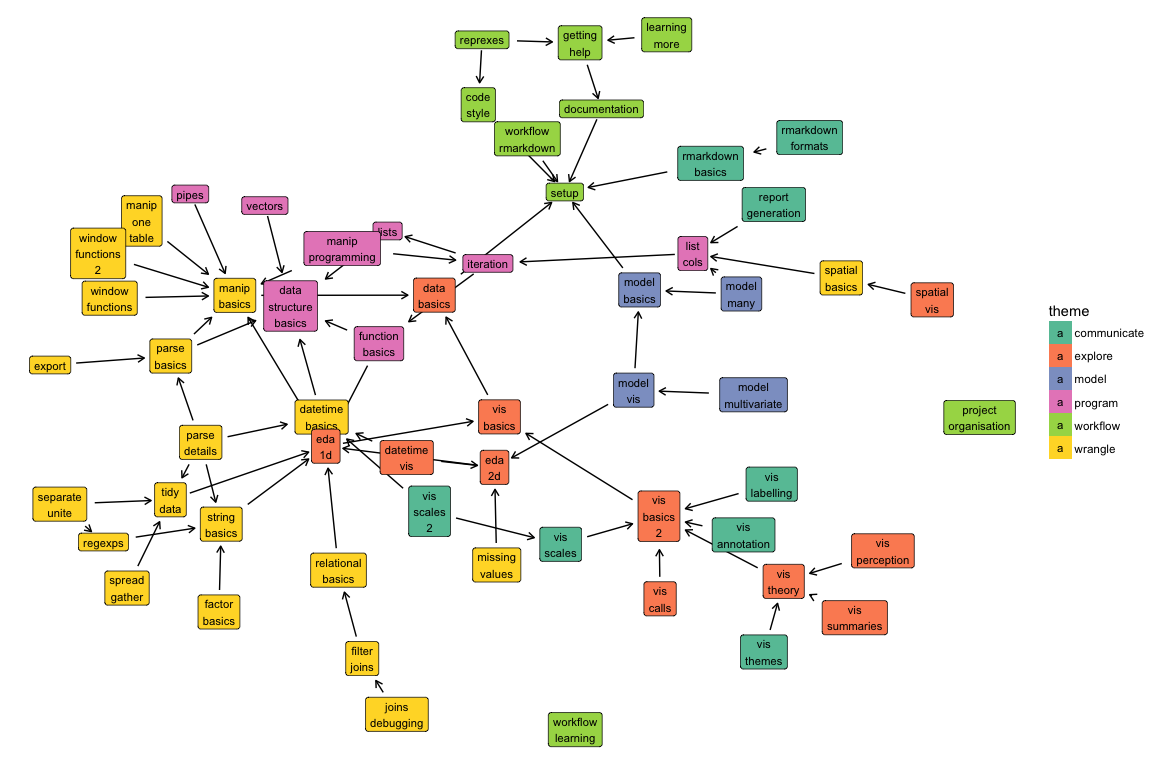
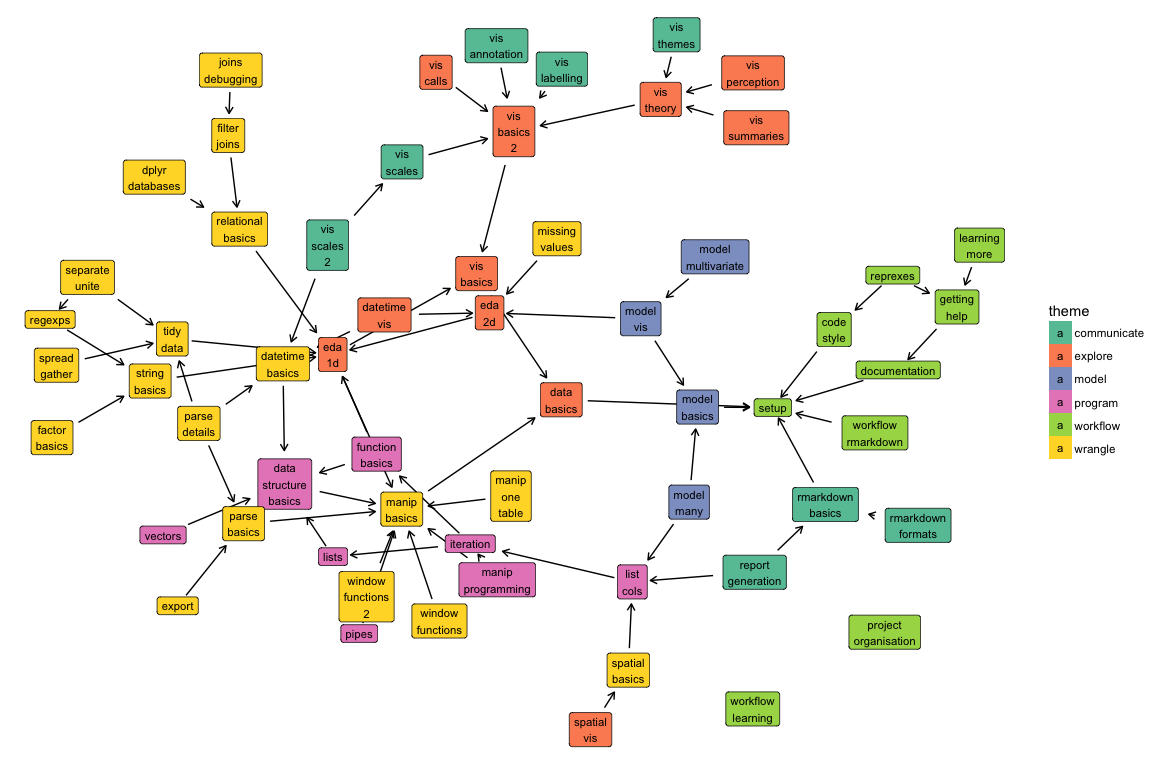
Add databases unit

diff --git a/storyboard.md b/storyboard.md
@@ -382,9 +382,9 @@
 |r4ds-25                               |Many models                                       |                                                                                   |                                                                             |                                                                                     |                                                                                       |                                                                                 |                                                                               |                                                                                       |                                                                       |                                                                                     |                                                                                     |
 |r4ds-25.1                             |Introduction                                      |                                                                                   |                                                                             |                                                                                     |                                                                                       |                                                                                 |                                                                               |                                                                                       |                                                                       |                                                                                     |                                                                                     |
 |r4ds-25.2                             |gapminder                                         |                                                                                   |                                                                             |                                                                                     |                                                                                       |                                                                                 |                                                                               |                                                                                       |[model-many](https://dcl-2017-01.github.io/curriculum/model-many.html) |                                                                                     |                                                                                     |
-|r4ds-25.3                             |List-columns                                      |                                                                                   |                                                                             |                                                                                     |                                                                                       |                                                                                 |                                                                               |[list-cols](https://dcl-2017-01.github.io/curriculum/list-cols.html)                   |                                                                       |                                                                                     |                                                                                     |
-|r4ds-25.4                             |Creating list-columns                             |                                                                                   |                                                                             |                                                                                     |                                                                                       |                                                                                 |                                                                               |[list-cols](https://dcl-2017-01.github.io/curriculum/list-cols.html)                   |                                                                       |                                                                                     |                                                                                     |
-|r4ds-25.5                             |Simplifying list-columns                          |                                                                                   |                                                                             |                                                                                     |                                                                                       |                                                                                 |                                                                               |[list-cols](https://dcl-2017-01.github.io/curriculum/list-cols.html)                   |                                                                       |                                                                                     |                                                                                     |
+|r4ds-25.3                             |List-columns                                      |                                                                                   |                                                                             |                                                                                     |                                                                                       |                                                                                 |[list-cols](https://dcl-2017-01.github.io/curriculum/list-cols.html)           |                                                                                       |                                                                       |                                                                                     |                                                                                     |
+|r4ds-25.4                             |Creating list-columns                             |                                                                                   |                                                                             |                                                                                     |                                                                                       |                                                                                 |[list-cols](https://dcl-2017-01.github.io/curriculum/list-cols.html)           |                                                                                       |                                                                       |                                                                                     |                                                                                     |
+|r4ds-25.5                             |Simplifying list-columns                          |                                                                                   |                                                                             |                                                                                     |                                                                                       |                                                                                 |[list-cols](https://dcl-2017-01.github.io/curriculum/list-cols.html)           |                                                                                       |                                                                       |                                                                                     |                                                                                     |
 |r4ds-25.6                             |Making tidy data with broom                       |                                                                                   |                                                                             |                                                                                     |                                                                                       |                                                                                 |                                                                               |                                                                                       |                                                                       |                                                                                     |                                                                                     |
 |r4ds-26                               |Introduction                                      |                                                                                   |                                                                             |                                                                                     |                                                                                       |                                                                                 |                                                                               |                                                                                       |                                                                       |                                                                                     |                                                                                     |
 |r4ds-27                               |R Markdown                                        |                                                                                   |                                                                             |                                                                                     |                                                                                       |                                                                                 |                                                                               |                                                                                       |                                                                       |                                                                                     |                                                                                     |

diff --git a/docs/upcoming.md b/docs/upcoming.md
@@ -250,6 +250,12 @@ title: Theme index
 </tr>
 <tr>
 <td></td>
+  <td colspan="2"></td>
+  <td colspan="3"><a class="program" href="list-cols.html">List columns</a></td>
+  <td colspan="3"></td>
+</tr>
+<tr>
+<td></td>
   <td colspan="1"></td>
   <td colspan="3"><a class="wrangle" href="window-functions-2.html">Transformation functions</a></td>
   <td colspan="4"></td>
@@ -279,12 +285,6 @@ title: Theme index
   <td colspan="1"></td>
   <td colspan="3"><a class="wrangle" href="factor-basics.html">Factor basics</a></td>
   <td colspan="4"></td>
-</tr>
-<tr>
-<td></td>
-  <td colspan="2"></td>
-  <td colspan="3"><a class="program" href="list-cols.html">List columns</a></td>
-  <td colspan="3"></td>
 </tr>
 <tr>
 <td></td>

diff --git a/docs/dplyr-databases.md b/docs/dplyr-databases.md
@@ -1,0 +1,20 @@
+---
+title: dplyr and databases
+---
+
+<!-- Generated automatically from dplyr-databases.yml. Do not edit by hand -->
+
+# dplyr and databases <small class='wrangle'>[wrangle]</small>
+<small>(Builds on: [Essentials of relational data](relational-basics.md))</small>
+
+So far you've used dplyr with in-memory dataframes. But one of the coolest
+things about dplyr is that provides an abstract interface: in other words,
+you can use the same code to work with data stored in different places.
+In this unit, you'll learn how to use dplyr with data that lives in a
+database.
+
+## Readings
+
+  * [Introduction to dplyr](http://dbplyr.tidyverse.org/articles/dbplyr.html)
+
+

diff --git a/docs/relational-basics.md b/docs/relational-basics.md
@@ -6,7 +6,7 @@ title: Essentials of relational data
 
 # Essentials of relational data <small class='wrangle'>[wrangle]</small>
 <small>(Builds on: [Exploratory data analysis (1D)](eda-1d.md))</small>  
-<small>(Leads to: [Semi- and anti-joins](filter-joins.md))</small>
+<small>(Leads to: [dplyr and databases](dplyr-databases.md), [Semi- and anti-joins](filter-joins.md))</small>
 
 It is extremely rare to only require a single table of data for an analysis.
 Far more often you will need to combine together multiple sources of
